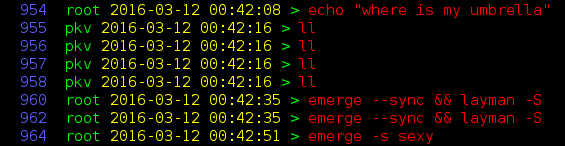
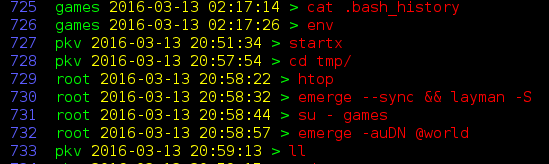
add func timestamp

Changed region(s): [[0.0, 0.0, 0.9909, 0.8493], [0.0, 0.8767, 0.7741, 1.0]]

diff --git a/shistory.py b/shistory.py
@@ -2,6 +2,7 @@
 
 #
 # todo : change color for root
+# todo : fix align
 # requirement : have a variable HISTTIMEFORMAT in your environment
 
 import pwd
@@ -11,7 +12,7 @@ import datetime
 
 # key = user / value = homedir
 users = {}
-# key = user / value = hist_pwd
+# key = user / value = hist_path
 hist_pwd = {}
 
 hist_file = '/.bash_history'
@@ -21,7 +22,6 @@ hist_vrac = []
 
 # timestamp list
 m_keys = []
-
 
 class bcolors:
     HEADER = '\033[95m'
@@ -46,9 +46,13 @@ def find_history():
             hist_pwd[k] = v + hist_file
 
 
-def timestamp_chg():
-    print "todo"
-
+def timestamp_chg(my_date):
+    t_stamp = (
+            datetime.datetime.fromtimestamp(
+                        int(my_date)
+                    ).strftime('%Y-%m-%d %H:%M:%S')
+    )
+    return t_stamp
 
 def hist_sort():
     for m_dict in hist_vrac:
@@ -82,8 +86,7 @@ def hist_agreg():
             pass
 
 
-def colors_chg():
-    n = 0
+def result():
     c = 0
     for i in m_keys:
         for n in range(len(m_keys)):
@@ -98,18 +101,19 @@ def colors_chg():
                 print bcolors.BLUE + str(c) + bcolors.ENDC,
                 print "",
                 print bcolors.GREEN + current_user + bcolors.ENDC,
-                print bcolors.YELLOW + (
-                    datetime.datetime.fromtimestamp(
-                        int(current_key)
-                    ).strftime('%Y-%m-%d %H:%M:%S')
-                ) + bcolors.ENDC,
+                print bcolors.YELLOW + timestamp_chg(current_key) + bcolors.ENDC,
                 print bcolors.GREEN + ">" + bcolors.ENDC,
                 print bcolors.RED + current_cmd + bcolors.ENDC,
-                hist_vrac[n][0]['999'] = hist_vrac[n][0][current_key]
+                hist_vrac[n][0]['42'] = hist_vrac[n][0][current_key]
 
 
-list_user_homedir()
-find_history()
-hist_agreg()
-hist_sort()
-colors_chg()
+def main():
+    list_user_homedir()
+    find_history()
+    hist_agreg()
+    hist_sort()
+    result()
+
+
+if __name__ == "__main__":
+    main()
